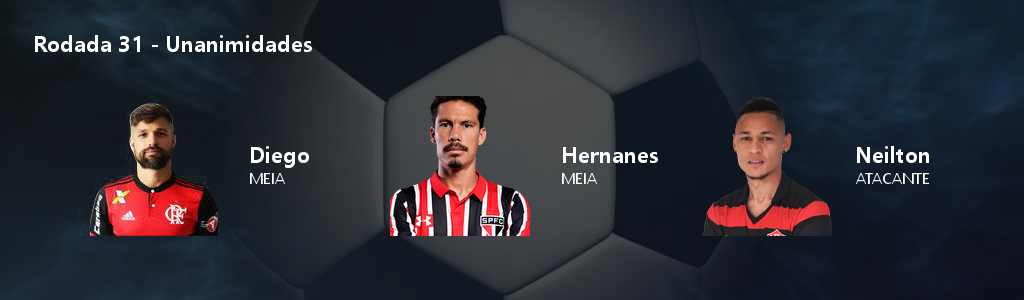
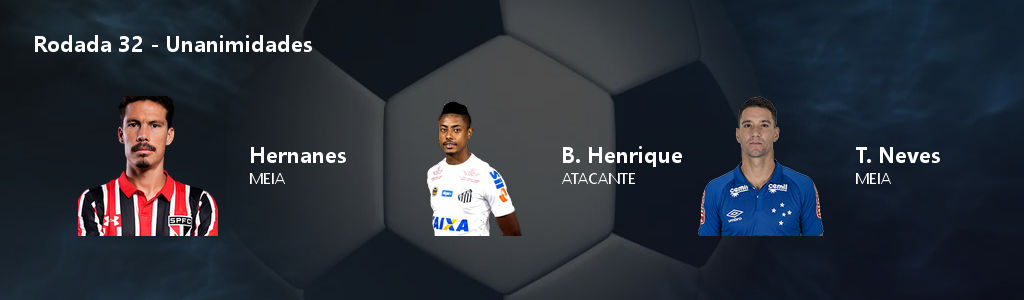
pictures update for round 32.

diff --git a/templates/header.html b/templates/header.html
@@ -35,21 +35,21 @@
     <!-- Wrapper for slides -->
     <div class="carousel-inner" role="listbox">
       <div class="item active">
-          <img src="images/caurosel1.png?v=1.0.3" alt="Image">
+          <img src="images/caurosel1.png?v=1.0.4" alt="Image">
         <div class="carousel-caption">
           
         </div>      
       </div>
 
       <div class="item">
-          <img src="images/caurosel2.png?v=1.0.3" alt="Image">
+          <img src="images/caurosel2.png?v=1.0.4" alt="Image">
         <div class="carousel-caption">
           
         </div>      
       </div>
         
       <div class="item">
-          <a href="matamataHostilidade.php"><img src="images/caurosel3.png?v=1.0.3" alt="Image"></a>
+          <img src="images/caurosel3.png?v=1.0.3" alt="Image">
         <div class="carousel-caption">
           
         </div>      
